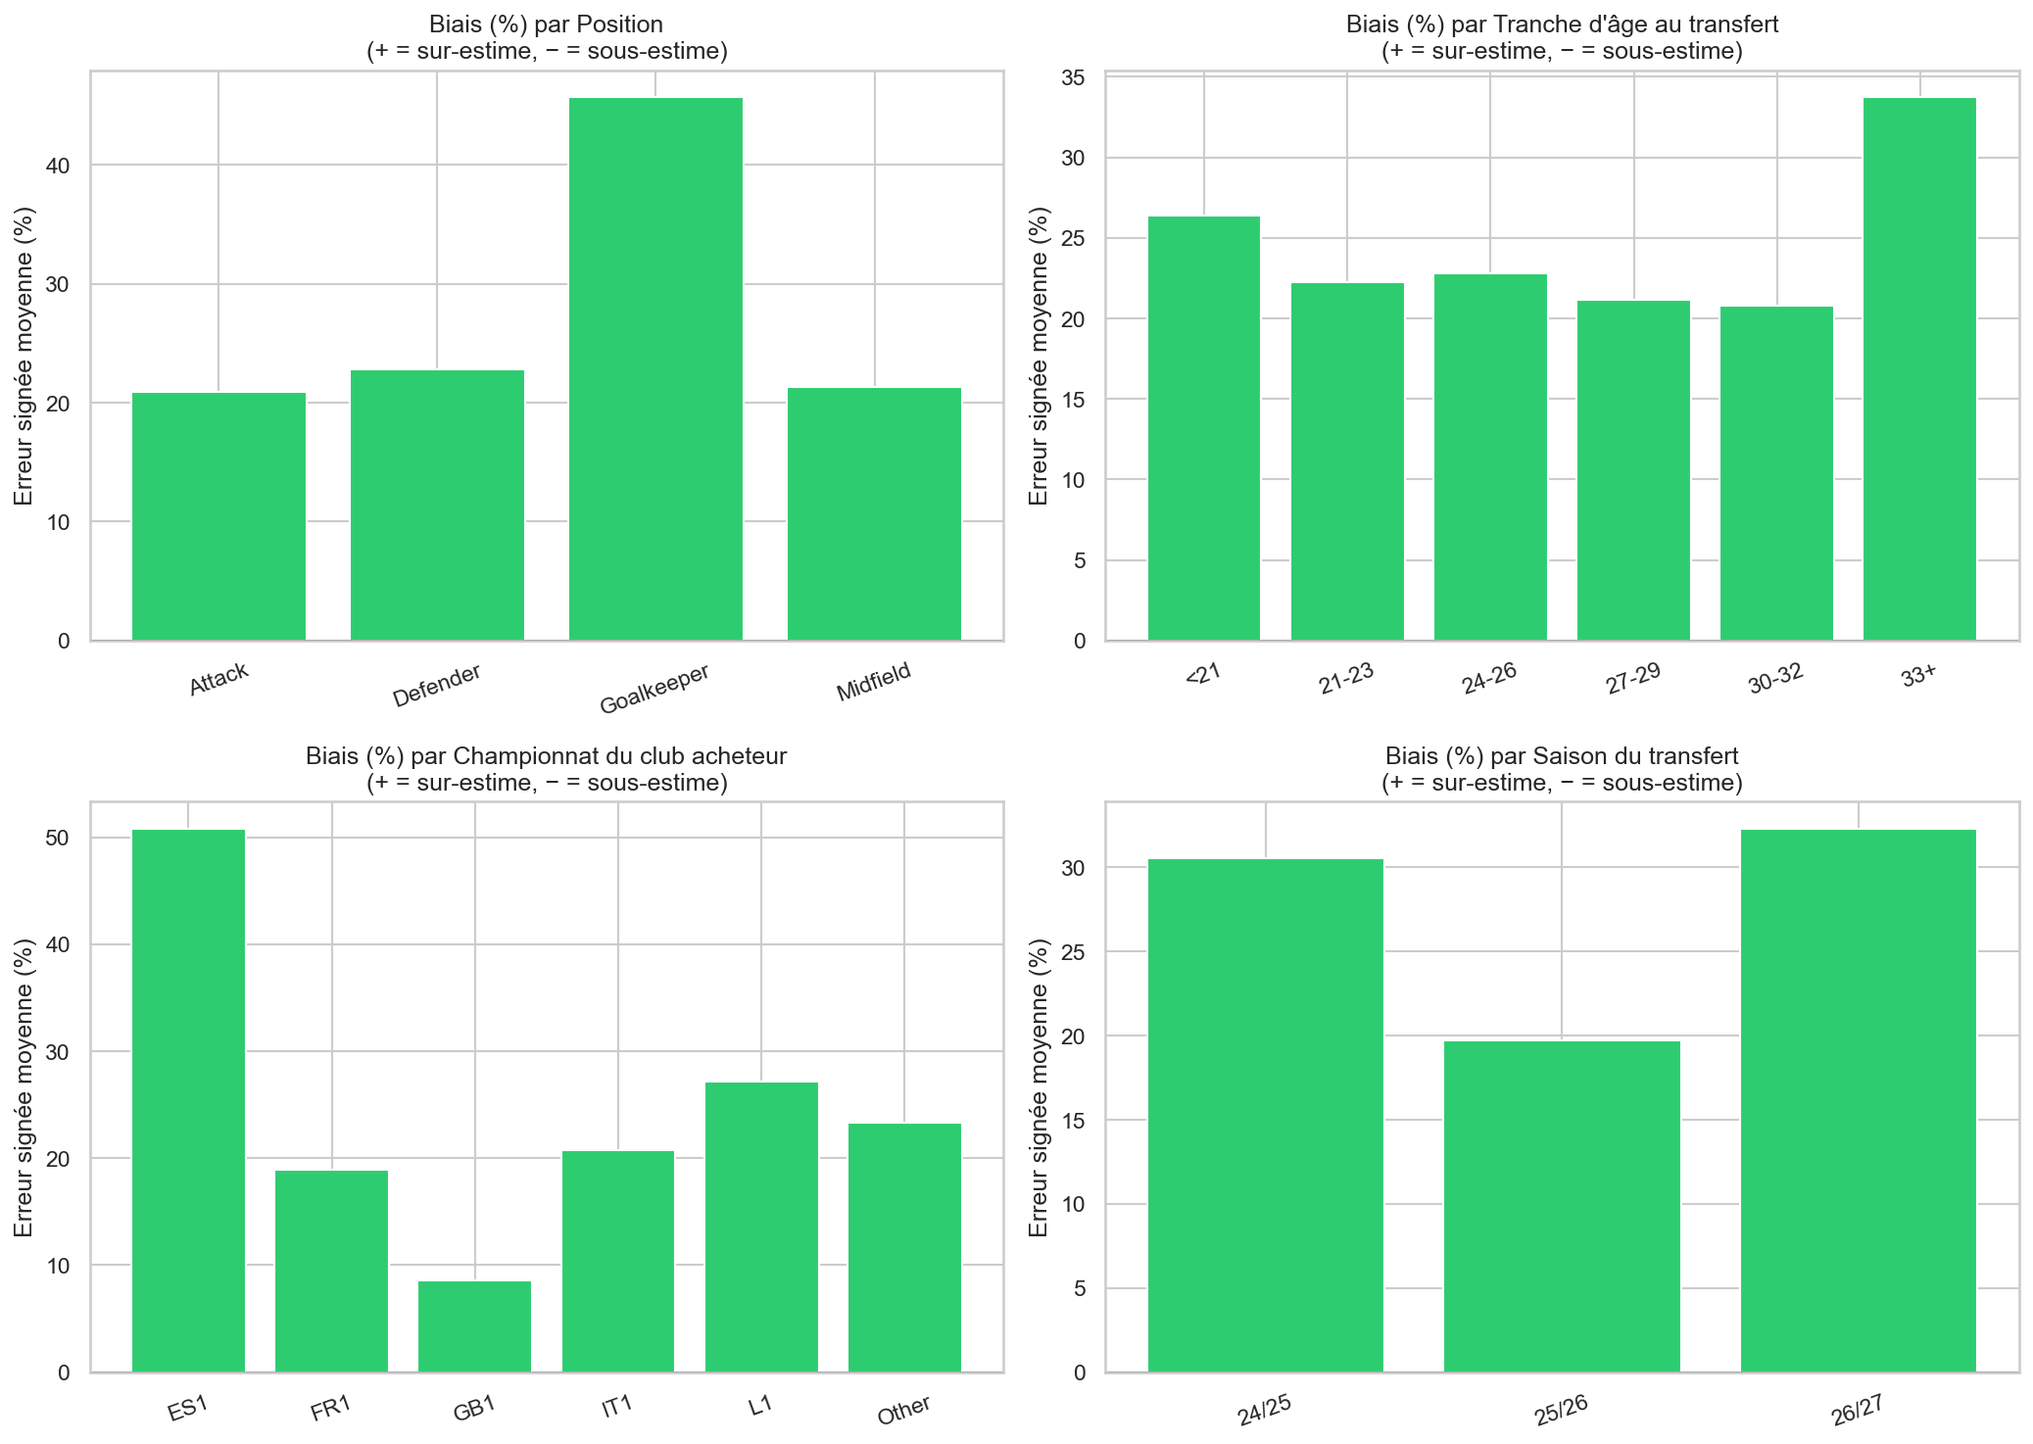
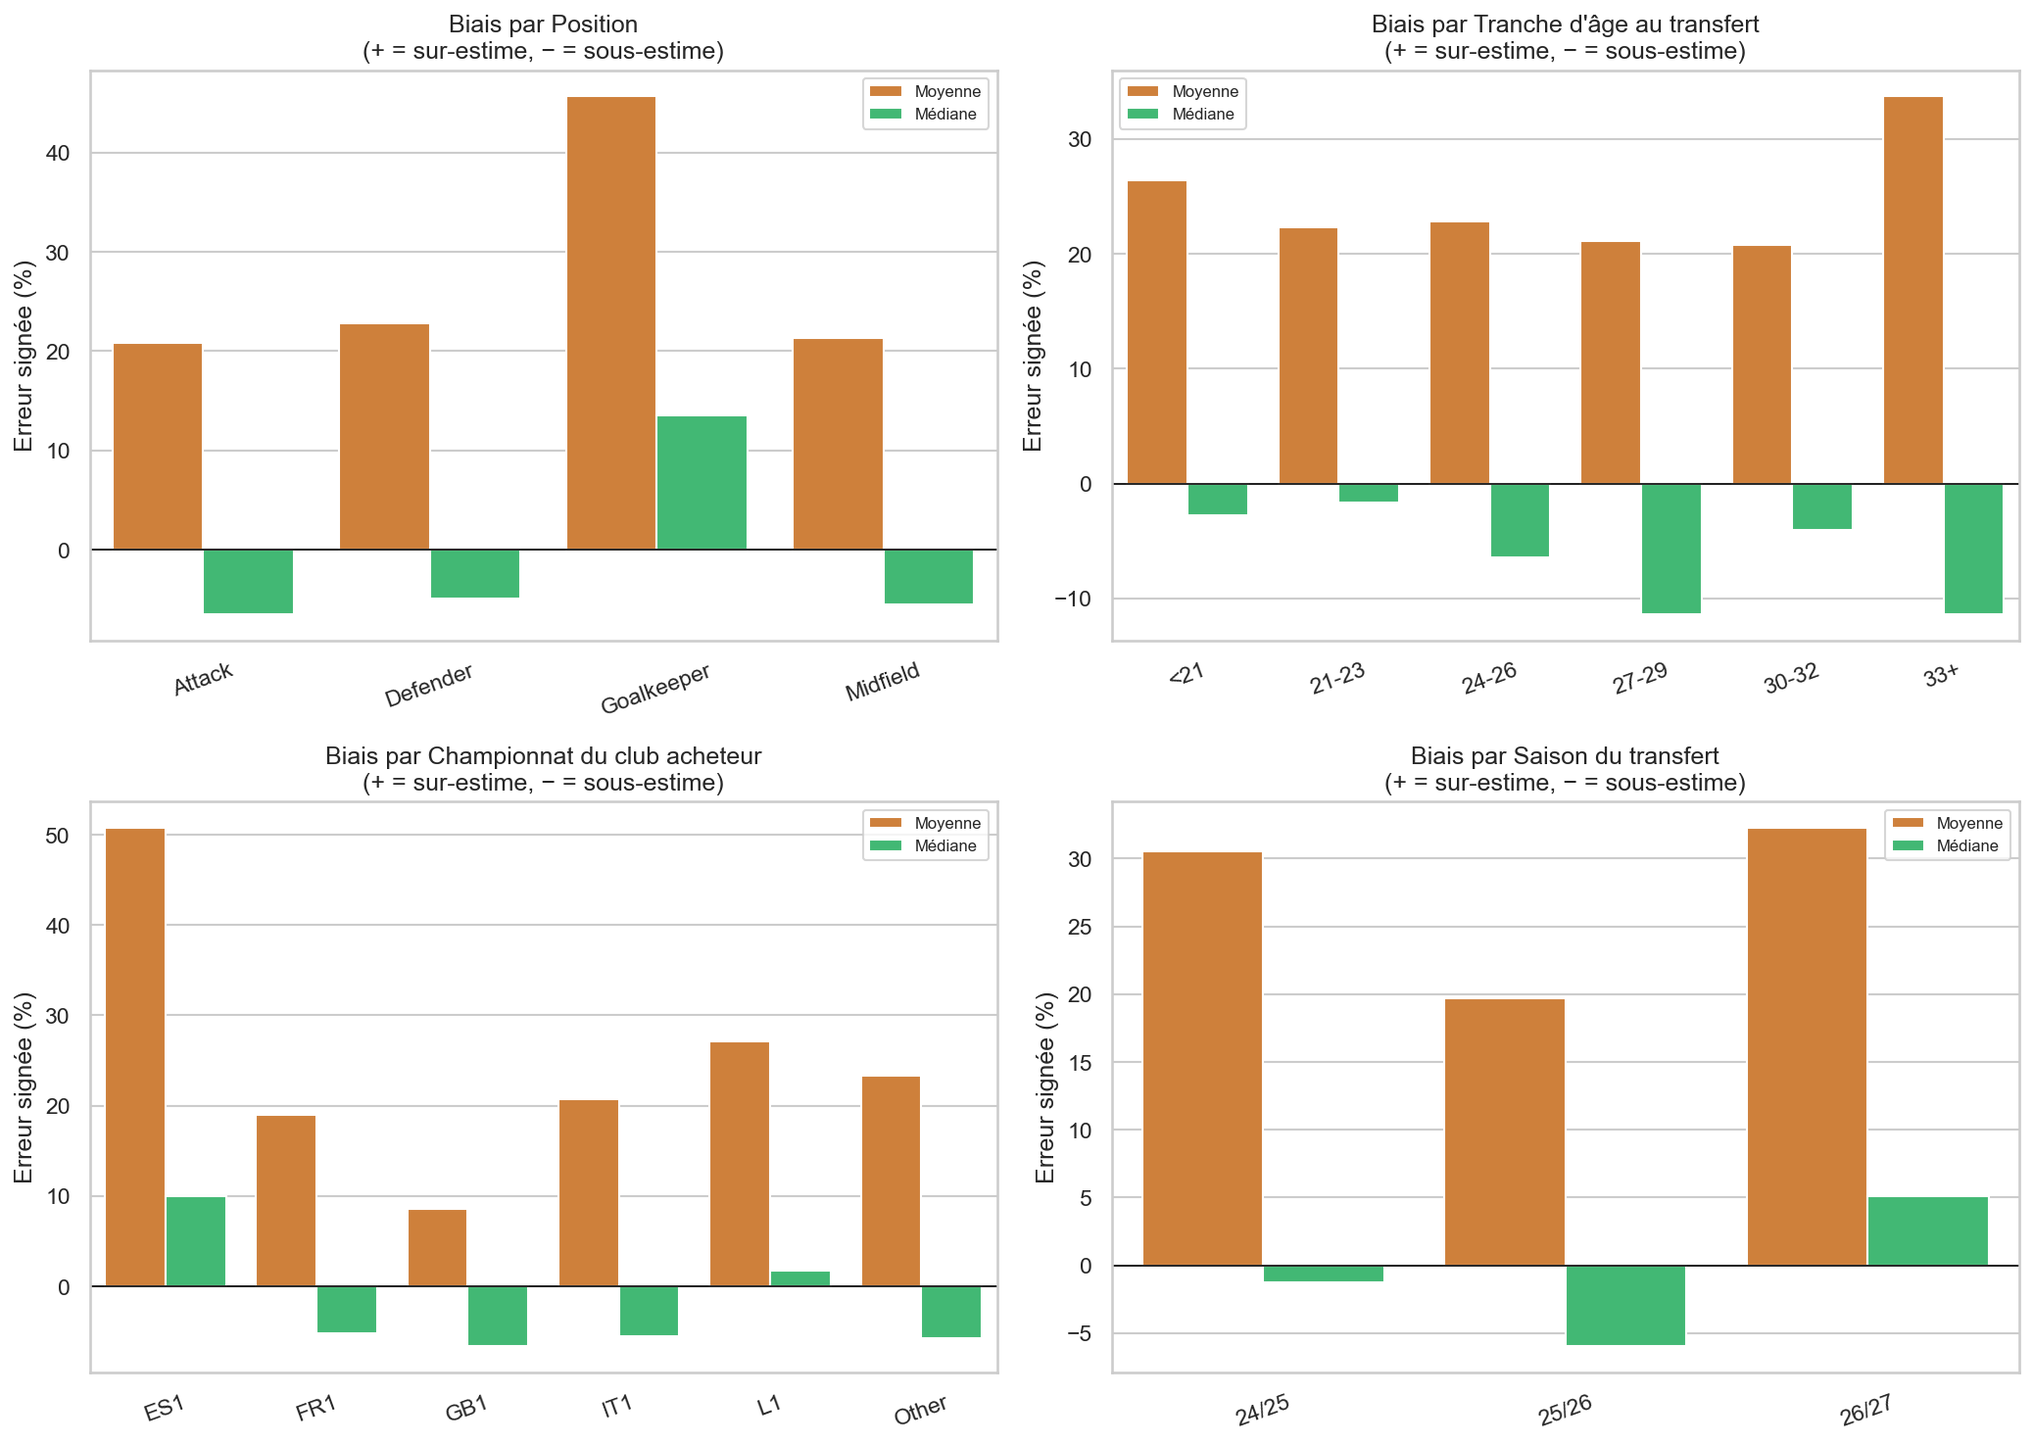
nouveauté dans les clubs embedding + NN (rien de vrm nouveau)

diff --git a/src/error_analysis.py b/src/error_analysis.py
@@ -56,14 +56,24 @@ def build_error_frame(
     # Biais signé : positif = le modèle SUR-estime le montant réel, négatif = il SOUS-estime
     err["signed_pct_err"] = (err["pred_fee"] - err["actual_fee"]) / err["actual_fee"] * 100
     err["tm_abs_pct_err"] = np.abs(err["tm_val"] - err["actual_fee"]) / err["actual_fee"] * 100
+    # Résidu en échelle log (= pred_log_spread - actual_log_spread), symétrique et non borné,
+    # contrairement à l'erreur en % qui explose sur les petits transferts (ex: +1000%).
+    err["log_residual"] = np.log(err["pred_fee"]) - np.log(err["actual_fee"])
     return err
 
 
 def _grouped_summary(err: pd.DataFrame, group_col: str) -> pd.DataFrame:
+    """Mean_Signed_Pct_Err est gardée pour référence mais très sensible aux
+    quelques très gros % d'erreur sur les transferts bon marché (cf.
+    error_density.png) ; Median_Signed_Pct_Err et Median_Log_Residual sont
+    beaucoup plus robustes à ces outliers et donnent une vue plus fiable du
+    biais "typique" par segment."""
     summary = err.groupby(group_col, observed=False).agg(
         N=("abs_pct_err", "count"),
         Median_Abs_Pct_Err=("abs_pct_err", "median"),
+        Median_Signed_Pct_Err=("signed_pct_err", "median"),
         Mean_Signed_Pct_Err=("signed_pct_err", "mean"),
+        Median_Log_Residual=("log_residual", "median"),
     ).reset_index()
     return summary[summary["N"] > 0]
 
@@ -92,6 +102,7 @@ def bucket_by_time(err: pd.DataFrame, n_buckets: int = 10) -> pd.DataFrame:
         Date_Min=("date", "min"),
         Date_Max=("date", "max"),
         Model_Median_Abs_Pct_Err=("abs_pct_err", "median"),
+        Model_Median_Signed_Pct_Err=("signed_pct_err", "median"),
         Model_Mean_Signed_Pct_Err=("signed_pct_err", "mean"),
         TM_Median_Abs_Pct_Err=("tm_abs_pct_err", "median"),
     ).reset_index(drop=True)
@@ -116,13 +127,63 @@ def plot_error_over_time(time_summary: pd.DataFrame, filename: str = "error_over
     ax.legend()
 
     ax2 = axes[1]
-    colors = ["#2ecc71" if v >= 0 else "#e74c3c" for v in time_summary["Model_Mean_Signed_Pct_Err"]]
-    ax2.bar(x, time_summary["Model_Mean_Signed_Pct_Err"], color=colors)
+    width = 0.38
+    x_arr = list(x)
+    ax2.bar([i - width / 2 for i in x_arr], time_summary["Model_Mean_Signed_Pct_Err"], width=width, color="#e67e22", label="Moyenne")
+    ax2.bar([i + width / 2 for i in x_arr], time_summary["Model_Median_Signed_Pct_Err"], width=width, color="#2ecc71", label="Médiane")
     ax2.axhline(0, color="black", lw=0.8)
-    ax2.set_ylabel("Biais signé moyen (%)\n(+ = sur-estime)")
+    ax2.set_ylabel("Biais signé (%)\n(+ = sur-estime)")
+    ax2.legend(fontsize=8)
     ax2.set_xticks(list(x))
     ax2.set_xticklabels(time_summary["Period"], rotation=35, ha="right", fontsize=8)
     ax2.set_xlabel("Période (date du transfert)")
+
+    plt.tight_layout()
+    out_path = FIGURES_DIR / filename
+    plt.savefig(out_path, dpi=150, bbox_inches="tight")
+    plt.close()
+    return out_path
+
+
+def plot_error_density(err: pd.DataFrame, filename: str = "error_density.png"):
+    """Densité de l'erreur du modèle sur l'ensemble des joueurs du jeu de test.
+
+    Deux vues complémentaires :
+    - à gauche, l'erreur en % (intuitive, mais très asymétrique : une petite
+      erreur en € sur un transfert bon marché donne un % énorme) ;
+    - à droite, le résidu en échelle log (symétrique, non borné, c'est ce que
+      le modèle optimise réellement) — donne une image plus honnête de la
+      distribution, sans le renflement artificiel côté "sur-estimation" créé
+      par les gros % sur les petits transferts.
+    """
+    median_pct = err["signed_pct_err"].median()
+    mean_pct = err["signed_pct_err"].mean()
+    median_log = err["log_residual"].median()
+    mean_log = err["log_residual"].mean()
+
+    fig, axes = plt.subplots(1, 2, figsize=(14, 5.5))
+
+    ax = axes[0]
+    # Zoom sur la zone utile (1er-99e percentile) : les valeurs extrêmes (>1000%,
+    # petits transferts) sont réelles mais écraseraient visuellement le reste.
+    lo, hi = err["signed_pct_err"].quantile([0.01, 0.99])
+    sns.kdeplot(err["signed_pct_err"], fill=True, color="#2ecc71", ax=ax, clip=(lo, hi))
+    ax.axvline(0, color="black", lw=1, ls="-")
+    ax.axvline(median_pct, color="#2c3e50", lw=1.5, ls="--", label=f"Médiane = {median_pct:.1f}%")
+    ax.axvline(mean_pct, color="#e67e22", lw=1.5, ls=":", label=f"Moyenne = {mean_pct:.1f}%")
+    ax.set_xlim(lo, hi)
+    ax.set_title("Densité de l'erreur signée (%)\n(+ = sur-estime, − = sous-estime)")
+    ax.set_xlabel("Erreur signée (%)")
+    ax.legend(fontsize=9)
+
+    ax2 = axes[1]
+    sns.kdeplot(err["log_residual"], fill=True, color="#3498db", ax=ax2)
+    ax2.axvline(0, color="black", lw=1, ls="-")
+    ax2.axvline(median_log, color="#2c3e50", lw=1.5, ls="--", label=f"Médiane = {median_log:+.3f}")
+    ax2.axvline(mean_log, color="#e67e22", lw=1.5, ls=":", label=f"Moyenne = {mean_log:+.3f}")
+    ax2.set_title("Densité du résidu en échelle log\n(pred_log_fee − actual_log_fee)")
+    ax2.set_xlabel("Résidu (log)")
+    ax2.legend(fontsize=9)
 
     plt.tight_layout()
     out_path = FIGURES_DIR / filename
@@ -158,9 +219,12 @@ def plot_error_magnitude(breakdowns: dict, filename: str = "error_analysis_magni
 
 
 def plot_error_bias(breakdowns: dict, filename: str = "error_analysis_bias.png"):
-    """Biais directionnel (erreur signée moyenne en %) : positif = le modèle
-    paie le joueur plus cher que le montant réel (sur-estimation), négatif =
-    moins cher (sous-estimation)."""
+    """Biais directionnel par segment : positif = le modèle paie le joueur
+    plus cher que le montant réel (sur-estimation), négatif = moins cher
+    (sous-estimation). Moyenne ET médiane sont affichées côte à côte, car la
+    moyenne est tirée vers le haut par quelques très gros % d'erreur sur des
+    transferts bon marché (cf. error_density.png) — la médiane donne une vue
+    plus robuste du biais "typique" du segment."""
     fig, axes = plt.subplots(2, 2, figsize=(14, 10))
     specs = [
         ("position", "Position", axes[0, 0]),
@@ -170,13 +234,20 @@ def plot_error_bias(breakdowns: dict, filename: str = "error_analysis_bias.png")
     ]
     for key, title, ax in specs:
         df = breakdowns[key]
-        colors = ["#e74c3c" if v < 0 else "#2ecc71" for v in df["Mean_Signed_Pct_Err"]]
-        ax.bar(df[df.columns[0]].astype(str), df["Mean_Signed_Pct_Err"], color=colors)
+        plot_df = pd.concat([
+            pd.DataFrame({"Segment": df[df.columns[0]].astype(str), "Biais (%)": df["Mean_Signed_Pct_Err"], "Statistique": "Moyenne"}),
+            pd.DataFrame({"Segment": df[df.columns[0]].astype(str), "Biais (%)": df["Median_Signed_Pct_Err"], "Statistique": "Médiane"}),
+        ])
+        sns.barplot(
+            data=plot_df, x="Segment", y="Biais (%)", hue="Statistique",
+            palette={"Moyenne": "#e67e22", "Médiane": "#2ecc71"}, ax=ax,
+        )
         ax.axhline(0, color="black", lw=0.8)
-        ax.set_title(f"Biais (%) par {title}\n(+ = sur-estime, − = sous-estime)")
+        ax.set_title(f"Biais par {title}\n(+ = sur-estime, − = sous-estime)")
         ax.set_xlabel("")
-        ax.set_ylabel("Erreur signée moyenne (%)")
+        ax.set_ylabel("Erreur signée (%)")
         ax.tick_params(axis="x", rotation=20)
+        ax.legend(fontsize=8)
 
     plt.tight_layout()
     out_path = FIGURES_DIR / filename

diff --git a/club_embedding_nn.py b/club_embedding_nn.py
@@ -13,7 +13,7 @@ Usage:
     python club_embedding_nn.py
 """
 
-from src import calibration, data_loading, dataset, evaluation, features, models, neural_net
+from src import calibration, data_loading, dataset, error_analysis, evaluation, features, models, neural_net
 from src.config import TABLES_DIR
 
 
@@ -64,6 +64,18 @@ def main():
     print("\n--- Classification binaire (prime vs. décote) ---")
     print(classification_df.round(4))
     classification_df.round(4).to_csv(TABLES_DIR / "nn_classification_comparison.csv", index=False)
+
+    print("\n" + "=" * 70)
+    print("6. Biais par segment : XGBoost vs. NN (moyenne vs. médiane)")
+    print("=" * 70)
+    err_xgb = error_analysis.build_error_frame(transfer_full_raw, split.df_model, split.X_test, split.y_test, baseline.predictions["XGBoost (Pseudo-Huber)"])
+    err_nn = error_analysis.build_error_frame(transfer_full_raw, split.df_model, split.X_test, split.y_test, nn_preds)
+
+    for group_col in ["position", "league_to"]:
+        comparison = calibration.bias_before_after_table(err_xgb, err_nn, group_col, label_a="XGBoost", label_b="NN")
+        print(f"\n--- Biais par {group_col} ---")
+        print(comparison)
+        comparison.to_csv(TABLES_DIR / f"nn_bias_by_{group_col}.csv")
 
     print("\nTerminé. Tableaux -> outputs/tables/nn_*.csv")
 

diff --git a/error_analysis.py b/error_analysis.py
@@ -62,10 +62,14 @@ def main():
     error_analysis.plot_error_magnitude(breakdowns)
     error_analysis.plot_error_bias(breakdowns)
     error_analysis.plot_error_over_time(time_summary)
+    error_analysis.plot_error_density(err)
+
+    print(f"\nErreur signée : médiane={err['signed_pct_err'].median():.1f}% | moyenne={err['signed_pct_err'].mean():.1f}%")
+    print("(la moyenne est tirée vers le haut par de gros % d'erreur sur des transferts bon marché)")
 
     print("\nTerminé.")
     print("  Tableaux -> outputs/tables/error_analysis_*.csv")
-    print("  Graphiques -> outputs/figures/error_analysis_magnitude.png, error_analysis_bias.png, error_over_time.png")
+    print("  Graphiques -> outputs/figures/error_analysis_magnitude.png, error_analysis_bias.png, error_over_time.png, error_density.png")
 
 
 if __name__ == "__main__":

diff --git a/README.md b/README.md
@@ -42,7 +42,8 @@ chaque exécution de `main.py`. Exemples :
 ├── main.py                 # Point d'entrée : exécute tout le pipeline
 ├── tune_models.py          # Script optionnel : tuning d'hyperparamètres (RandomizedSearchCV)
 ├── error_analysis.py       # Script optionnel : analyse d'erreurs par segment et dans le temps
-├── calibrate_model.py      # Script optionnel : test de calibration isotonique (résultat négatif)
+├── calibrate_model.py      # Script optionnel : test de calibration isotonique (résultat nuancé)
+├── club_embedding_nn.py    # Script optionnel : réseau de neurones avec embeddings de club
 ├── src/
 │   ├── config.py            # Chemins et constantes
 │   ├── data_loading.py      # Chargement + fusion clubs / transfer_panel
@@ -55,7 +56,8 @@ chaque exécution de `main.py`. Exemples :
 │   ├── examples.py           # Exemples de transferts du jeu de test, graphiques finaux
 │   ├── tuning.py             # Grilles de recherche + comparaison baseline/tuné/benchmark
 │   ├── error_analysis.py     # Segmentation de l'erreur (position/âge/championnat/temps)
-│   └── calibration.py        # Calibration isotonique XGBoost (fit/calib/test chronologiques)
+│   ├── calibration.py        # Calibration isotonique XGBoost (fit/calib/test chronologiques)
+│   └── neural_net.py         # Réseau de neurones + embeddings de club (PyTorch)
 ├── outputs/
 │   ├── figures/              # PNG générés par le pipeline
 │   └── tables/                # CSV des tableaux de résultats
@@ -156,27 +158,54 @@ directionnel (sur- ou sous-estimation systématique, pas juste l'erreur absolue)
 python error_analysis.py
 ```
 
-Principaux constats :
-- Le modèle **sur-estime systématiquement** les montants, à des degrés très
-  différents selon le championnat : **+50.8%** pour La Liga (ES1) contre
-  seulement **+8.5%** pour la Premier League (GB1) — cohérent avec les
-  contraintes financières connues des clubs espagnols (Fair-Play Financier).
-- Les **gardiens** (+45.7%) et les **moins de 21 ans** (+26.4%) sont aussi
-  nettement plus sur-estimés que la moyenne.
+**Attention moyenne vs. médiane** : l'erreur en % est très asymétrique (une
+petite erreur en € sur un transfert bon marché donne un % énorme) — voir
+[`outputs/figures/error_density.png`](outputs/figures/error_density.png). La
+**moyenne** du biais est donc tirée vers le haut par une poignée d'outliers ;
+la **médiane** donne une image bien plus fiable du biais "typique" d'un
+segment. Les deux sont calculées partout, mais c'est la médiane qui doit
+servir à conclure.
+
+Principaux constats (médiane) :
+- Le modèle n'est **pas vraiment en sur-estimation généralisée** : la plupart
+  des positions, tranches d'âge et championnats ont un biais médian proche de
+  zéro, voire légèrement négatif (légère sous-estimation).
+- Deux exceptions nettes et robustes : les **gardiens** (+13.5% de biais
+  médian) et les transferts vers **La Liga (ES1)** (+10.0%) — tout le reste
+  est dans une fourchette de -7% à +2%.
 - Dans le temps, l'erreur est **stable** sur les ~2 ans du jeu de test : le
-  modèle bat Transfermarkt seul sur **chaque** tranche chronologique, sans
-  exception — l'avantage n'est pas un coup de chance concentré sur une période.
+  modèle bat Transfermarkt seul (en erreur absolue) sur **chaque** tranche
+  chronologique, sans exception — l'avantage n'est pas un coup de chance
+  concentré sur une période.
 
 ![Évolution de l'erreur dans le temps, modèle vs. Transfermarkt seul](outputs/figures/error_over_time.png)
 
-**Piste testée et abandonnée** : [`calibrate_model.py`](calibrate_model.py)
-essaie de corriger ce biais avec une régression isotonique (prédiction brute →
-valeur corrigée), apprise sur une portion du train set jamais utilisée pour
-l'entraînement. Résultat **négatif** : la correction aggrave le biais sur le
-test set, car le biais mesuré n'est pas stable dans le temps (la fenêtre de
-calibration et le test set n'ont pas le même biais). Conservé dans le dépôt
-comme exemple de vérification out-of-sample qui a bien fait son travail —
-mieux vaut un résultat négatif détecté que des faux espoirs.
+**Piste testée — résultat nuancé** : [`calibrate_model.py`](calibrate_model.py)
+essaie de corriger le biais ES1/gardiens avec une régression isotonique
+(prédiction brute → valeur corrigée), apprise sur une portion du train set
+jamais utilisée pour l'entraînement, puis vérifiée une seule fois sur le test
+set. En regardant seulement la moyenne, la correction semble empirer le biais
+partout. **Mais en médiane** (voir `outputs/tables/calibration_bias_by_*.csv`),
+elle améliore en fait la majorité des segments (attaquants, défenseurs,
+milieux, la plupart des championnats) et dégrade spécifiquement les segments
+déjà les plus atypiques (gardiens, La Liga, Bundesliga) — parce que la
+correction est globale (un seul mapping pour tout le monde), dominée par les
+segments majoritaires, et overcorrige les minoritaires. Sur les métriques
+globales (R², MAE), l'effet reste quasi neutre. Conservée dans le dépôt comme
+exemple de vérification rigoureuse qui a changé deux fois de conclusion selon
+la métrique utilisée — une bonne leçon de méthode en soi.
+
+**Piste testée — réseau de neurones avec embeddings de club** :
+[`club_embedding_nn.py`](club_embedding_nn.py) teste si un petit réseau de
+neurones avec des embeddings pour `from_club_id`/`to_club_id` (actuellement
+ignorés comme features) peut capter un effet club-spécifique et réduire le
+biais ES1. Résultat : le NN reste nettement meilleur que Transfermarkt seul
+mais **moins bon que XGBoost** (R² 0.812 vs. 0.825) — attendu avec seulement
+~10 700 lignes d'entraînement pour du deep learning. Le biais ES1 n'est **pas
+corrigé** (+10.5% vs. +10.0% pour XGBoost), et les gardiens empirent nettement
+(+13.5% → +23.9%) : avec ~1900 clubs distincts pour si peu de données, les
+embeddings n'ont pas assez d'exemples par club pour apprendre un vrai effet
+club-spécifique.
 
 ## Notebook original
 
